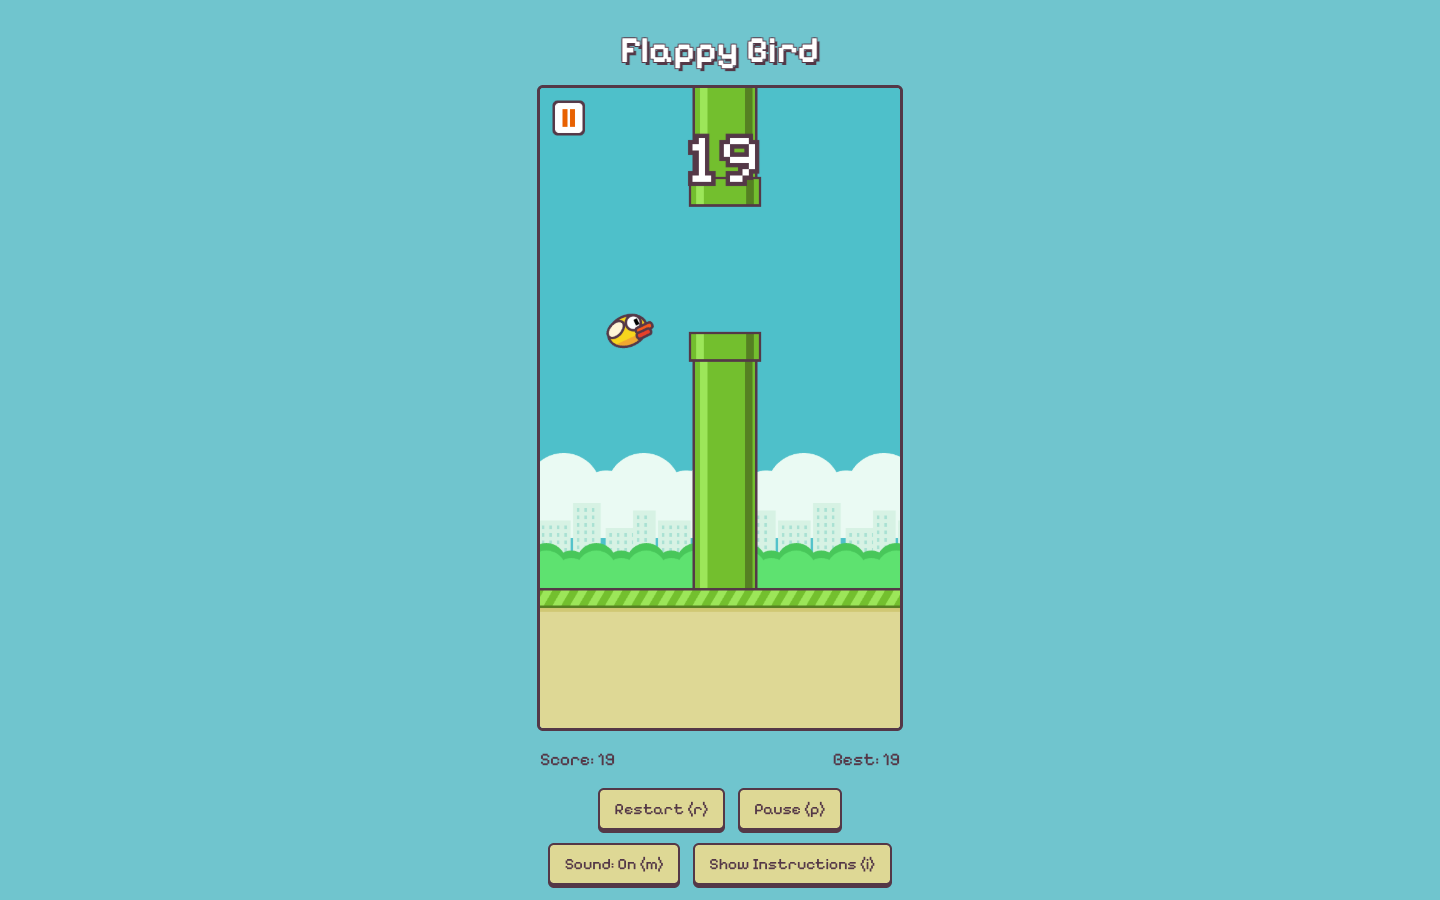
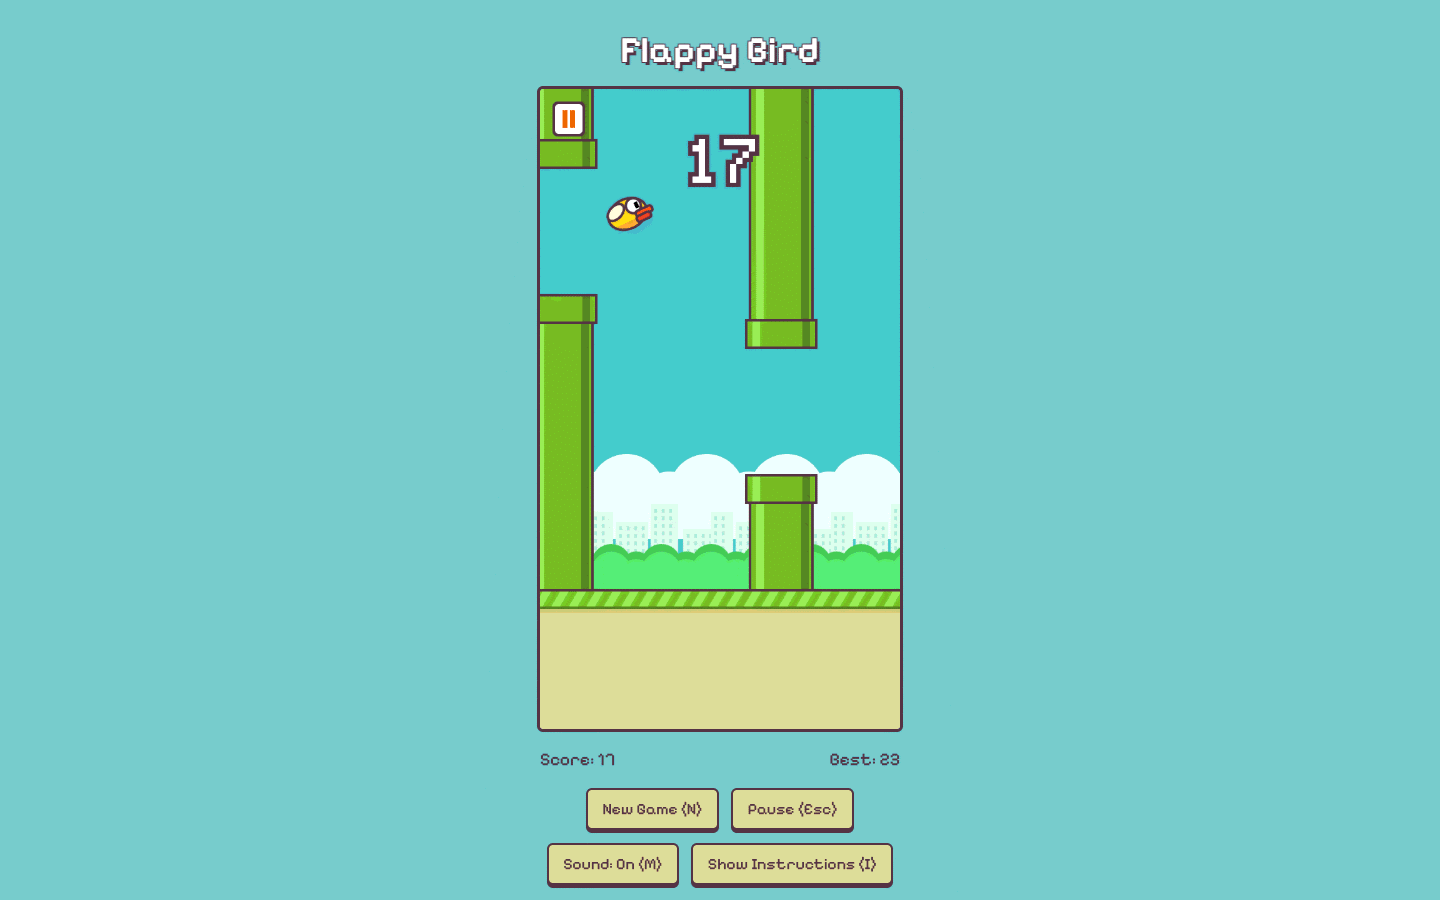
Flappy Bird: Esc pauses (not P), N and New Game (not R and Restart), key table instructions; mouse-only hover; new screenshots

Changed region(s): [[0.375, 0.0933, 0.625, 0.6844], [0.375, 0.84, 0.625, 0.9956], [0.375, 0.0933, 0.4375, 0.1867]]

diff --git a/js/flappy-bird.js b/js/flappy-bird.js
@@ -9,7 +9,7 @@
  *
  * Features:
  * - Get Ready, the game, a scoreboard with the best score and a medal (bronze from 10, silver 20, gold 30, platinum 40)
- * - Flap with Space, ↑, W, a click or a tap; pause with P, Esc or the pause button on the canvas
+ * - Flap with Space, ↑, W, a click or a tap; pause with Esc or the pause button on the canvas
  * - Sounds, made in the browser (Web Audio), on or off with M
  * - Pauses by itself when the page is hidden, loses the keyboard, or GameHub asks; a paused game is saved, and carries on
  *   (paused) next time
@@ -202,7 +202,7 @@ function toggleSound() {
 
 // --- The game ---
 
-// Back to Get Ready (a game under way is dropped: not kept)
+// A new game: back to Get Ready (a game under way is dropped: not kept)
 function toReady() {
     const dropped = screen === 'playing';
     if (dropped) run?.discard();
@@ -295,7 +295,7 @@ function gameOver() {
     showStatus();
 }
 
-// Pause the game under way (the pause button, P, Esc; the page hidden; GameHub)
+// Pause the game under way (the pause button, Esc; the page hidden; GameHub)
 function pause() {
     if (screen !== 'playing' || paused || GameHub.replaying) return;
     paused = true;
@@ -344,7 +344,7 @@ function resumeSavedGame() {
     previousY = game.y;
     bestBefore = saved.best;
     screen = 'playing';
-    paused = true; // It waits for the player: a flap, P, or the play button
+    paused = true; // It waits for the player: a flap, Esc, or the play button
     newBest = false;
     accumulator = 0;
     document.getElementById('score').textContent = game.score;
@@ -360,16 +360,16 @@ window.addEventListener('pagehide', pause);
 window.addEventListener('blur', pause);
 document.addEventListener('gamehub:pause', pause);
 
-// The keys: Space and ↑ flap; P and Esc pause; R goes back to Get Ready (js/extend-controls.js adds W, clicks and taps;
-// js/buttons-handler.js, M and I)
+// The keys: Space and ↑ flap; Esc pauses; N starts a new game, back at Get Ready (js/extend-controls.js adds W, clicks
+// and taps; js/buttons-handler.js, M and I)
 document.addEventListener('keydown', (e) => {
     if (e.ctrlKey || e.metaKey || e.altKey || GameHub.replaying) return;
     if (e.key === ' ' || e.key === 'ArrowUp') {
         e.preventDefault(); // Not a scroll, or a button that still has focus
         if (!e.repeat) flap();
-    } else if ((e.key === 'p' || e.key === 'Escape') && !e.repeat) {
+    } else if (e.key === 'Escape' && !e.repeat) {
         togglePause();
-    } else if (e.key === 'r' && !e.repeat) {
+    } else if (e.key === 'n' && !e.repeat) {
         toReady();
     }
 });
@@ -391,7 +391,7 @@ function pressCanvas(clientX, clientY) {
 // GameHub's frame, a click on the game gives it the keyboard)
 const KEYS_HINTS = {
     start: { touch: 'Tap to flap', away: 'Click here to play', keys: 'Press Space to flap' },
-    resume: { touch: 'Tap to carry on', away: 'Click here to carry on', keys: 'Space or P to carry on' },
+    resume: { touch: 'Tap to carry on', away: 'Click here to carry on', keys: 'Space or Esc to carry on' },
     restart: { touch: 'Tap to play again', away: 'Click here to play again', keys: 'Press Space to play again' },
 };
 function keysHint(action) {

diff --git a/test/bot.js b/test/bot.js
@@ -1,11 +1,11 @@
 /**
  * Replay test: Flappy Bird's bot (test/index.html, with test/check.js)
  *
- * Each game goes back to Get Ready (R) and starts with a flap. The bot steps the game itself (as the page does each
- * frame), so a game takes no time, and flaps through the page's own controls (Space, ↑, W, or a tap on the canvas)
- * whenever the bird is below the middle of the next gap and not already rising. Now and then it slips (no flaps for a
- * moment), more often as the score grows, which is the end of it sooner or later. Once in a while it pauses (P) and
- * carries on with P or a flap. A game still going after 20000 steps is left (R), and its run isn't kept.
+ * Each game is a new game, back at Get Ready (N), and starts with a flap. The bot steps the game itself (as the page
+ * does each frame), so a game takes no time, and flaps through the page's own controls (Space, ↑, W, or a tap on the
+ * canvas) whenever the bird is below the middle of the next gap and not already rising. Now and then it slips (no flaps
+ * for a moment), more often as the score grows, which is the end of it sooner or later. Once in a while it pauses (Esc)
+ * and carries on with Esc or a flap. A game still going after 20000 steps is left (N), and its run isn't kept.
  */
 window.ReplayBot = (function () {
     const MAX_STEPS = 20000;
@@ -37,7 +37,7 @@ window.ReplayBot = (function () {
 
         async play(page, t) {
             const rules = page.eval('GameRules');
-            t.key('r'); // Back to Get Ready
+            t.key('n'); // A new game: back to Get Ready
             flap(t, page); // The first flap starts a game (and its run)
             t.watch();
 
@@ -46,8 +46,8 @@ window.ReplayBot = (function () {
                 const game = page.eval('game');
                 const chance = t.random();
                 if (chance < 0.002) {
-                    t.key('p'); // Pause
-                    if (t.random() < 0.5) t.key('p'); // Carry on with P…
+                    t.key('Escape'); // Pause
+                    if (t.random() < 0.5) t.key('Escape'); // Carry on with Esc…
                     else flap(t, page); // …or a flap
                 }
                 if (slip > 0) {
@@ -58,11 +58,11 @@ window.ReplayBot = (function () {
                     const next = game.pipes.find((pipe) => pipe.x + rules.PIPE_WIDTH > rules.BIRD_X - 13);
                     if (game.y > (next.gapTop + next.gap / 2 + 18) * 100 && game.speed > -100) flap(t, page);
                 }
-                if (page.eval('paused')) t.key('p'); // Paused by the page (it was hidden): carry on
+                if (page.eval('paused')) t.key('Escape'); // Paused by the page (it was hidden): carry on
                 page.gameStep();
                 if (steps % 300 === 0) await t.pause();
             }
-            if (page.eval("screen === 'playing'")) t.key('r'); // Gave up: back to Get Ready (the run is dropped)
+            if (page.eval("screen === 'playing'")) t.key('n'); // Gave up: a new game (the run is dropped)
         },
     };
 })();

diff --git a/index.html b/index.html
@@ -33,20 +33,28 @@
         <p>Best: <span id="highScore">0</span></p>
     </div>
     <div class="controls">
-        <button id="restartBtn">Restart (r)</button>
-        <button id="pauseBtn">Pause (p)</button>
-        <button id="soundBtn" aria-pressed="true">Sound: On (m)</button>
-        <button id="showInstructionsBtn">Show Instructions (i)</button>
+        <button id="restartBtn">New Game (N)</button>
+        <button id="pauseBtn">Pause (Esc)</button>
+        <button id="soundBtn" aria-pressed="true">Sound: On (M)</button>
+        <button id="showInstructionsBtn">Show Instructions (I)</button>
     </div>
     <aside class="instructions">
-        <h2>How to Play:</h2>
-        <p>Press Space (or ↑, or W), click or tap to flap: each flap lifts the bird, and it falls in between.</p>
-        <p>Fly through the gaps between the pipes. Each pipe you pass is a point.</p>
-        <p>Don't touch a pipe or the ground!</p>
+        <h2>How to Play</h2>
+        <p>Flap through the gaps between the pipes: each flap lifts the bird, and it falls in between. Each pipe you pass is a point. Don't touch a pipe or the ground!</p>
         <p>Medals: bronze from 10 points, silver from 20, gold from 30, platinum from 40.</p>
-        <hr>
-        <p>Press "P" or "Esc" (or the button at the top left of the game) to pause. A paused game is saved: close the page, and it carries on next time.</p>
-        <p>Press "R" to go back to Get Ready, and "M" to turn the sound on or off.</p>
+        <!-- The controls, lined up: the keys (or the mouse and touch) on the left, what they do on the right -->
+        <table class="keys">
+            <tr><th colspan="2">Keys</th></tr>
+            <tr><td><kbd>Space</kbd> <kbd>↑</kbd> <kbd>W</kbd></td><td>Flap</td></tr>
+            <tr><td><kbd>Esc</kbd></td><td>Pause or resume</td></tr>
+            <tr><td><kbd>N</kbd></td><td>New game</td></tr>
+            <tr><td><kbd>M</kbd></td><td>Sound on or off</td></tr>
+            <tr><td><kbd>I</kbd></td><td>Show or hide these instructions</td></tr>
+            <tr><th colspan="2">Mouse and touch</th></tr>
+            <tr><td><b>Click</b> or <b>tap</b></td><td>Flap</td></tr>
+            <tr><td>The <b>pause button</b></td><td>Pause or resume (at the top left)</td></tr>
+        </table>
+        <p>A flap starts a game, and carries on a paused one. A paused game is saved: close the page, and it carries on next time.</p>
     </aside>
     <!-- JavaScript for this page -->
     <script src="js/buttons-handler.js"></script>

diff --git a/js/buttons-handler.js b/js/buttons-handler.js
@@ -1,4 +1,8 @@
 document.addEventListener('DOMContentLoaded', function() {
+    // A tapped button shows its pressed look (:active) on iPhones and iPads too: Safari shows it only to a page that
+    // listens for touches
+    document.addEventListener('touchstart', function() {}, { passive: true });
+
     const instructionsBtn = document.getElementById('showInstructionsBtn');
     const instructions = document.querySelector('.instructions');
     const restartBtn = document.getElementById('restartBtn');
@@ -9,11 +13,11 @@ document.addEventListener('DOMContentLoaded', function() {
     function toggleInstructions() {
         if (instructions.style.display === 'none') {
             instructions.style.display = 'block';
-            instructionsBtn.textContent = 'Hide Instructions (i)';
+            instructionsBtn.textContent = 'Hide Instructions (I)';
             window.scrollTo({ top: window.scrollY + instructions.getBoundingClientRect().top, behavior: 'smooth' });
         } else {
             instructions.style.display = 'none';
-            instructionsBtn.textContent = 'Show Instructions (i)';
+            instructionsBtn.textContent = 'Show Instructions (I)';
             instructions.scrollTo({ top: 0, behavior: 'smooth' });
         }
     }
@@ -24,7 +28,7 @@ document.addEventListener('DOMContentLoaded', function() {
 
     // The Sound button says whether the sound is on (js/flappy-bird.js tells it when that changes)
     function showSound() {
-        soundBtn.textContent = soundOn ? 'Sound: On (m)' : 'Sound: Off (m)';
+        soundBtn.textContent = soundOn ? 'Sound: On (M)' : 'Sound: Off (M)';
         soundBtn.setAttribute('aria-pressed', String(soundOn));
     }
     showSound();
@@ -37,7 +41,7 @@ document.addEventListener('DOMContentLoaded', function() {
         if (e.key === 'm') toggleSound();
     });
 
-    // The buttons: back to Get Ready, pause or resume, the sound
+    // The buttons: a new game (back to Get Ready), pause or resume, the sound
     restartBtn.addEventListener('click', toReady);
     pauseBtn.addEventListener('click', togglePause);
     soundBtn.addEventListener('click', toggleSound);

diff --git a/css/page.css b/css/page.css
@@ -58,8 +58,12 @@ button {
     cursor: pointer;
 }
 
-button:hover {
-    background-color: #f5f0c4;
+/* Lighter under the mouse (only with a mouse: on a touch screen it would stay light after a tap); pressed, it goes
+   down */
+@media (hover: hover) {
+    button:hover {
+        background-color: #f5f0c4;
+    }
 }
 
 button:active {
@@ -81,6 +85,47 @@ button:active {
 .instructions h2 {
     margin-top: 0;
     font-size: 1.2em;
+}
+
+.instructions p {
+    margin: 0.5em 0;
+}
+
+/* The controls, lined up in a table with no lines: the keys (or the mouse and touch) on the left, what they do on the
+   right */
+.keys {
+    border-collapse: collapse;
+}
+
+.keys th {
+    padding: 0.8em 0 0.3em;
+    text-align: left;
+}
+
+.keys td {
+    padding: 4px 0 3px;
+    vertical-align: baseline;
+}
+
+.keys td:first-child {
+    padding-right: 1.5em;
+    white-space: nowrap;
+}
+
+/* A key: like the buttons, in the game's sand and brown */
+.instructions kbd {
+    display: inline-block;
+    min-width: 1.2em;
+    padding: 1px 6px;
+    border: 2px solid #543847;
+    border-radius: 5px;
+    background-color: #f5f0c4;
+    box-shadow: 0 2px 0 #543847;
+    color: #543847;
+    font-family: inherit;
+    font-size: 0.95em;
+    font-weight: bold;
+    text-align: center;
 }
 
 /* The Easter egg (js/qwerty.js): the page at night too, its writing light */

diff --git a/README.md b/README.md
@@ -1,4 +1,5 @@
 # Flappy Bird
+[![flappy-bird@v1.0.0](https://img.shields.io/badge/flappy--bird-v1.0.0-blue)](https://github.com/DanyilT/dt-games/releases/tag/flappy-bird@v1.0.0)
 
 Flap through the gaps between the pipes, as far as you can: the classic one-button game, in the original's style. Every picture is drawn in code (no image files from the original), and the sounds are made in the browser.
 
@@ -14,8 +15,8 @@ Flap to start. In GameHub, click the game first, so it has the keyboard: it says
 | --- | --- |
 | <kbd>Space</kbd> / <kbd>↑</kbd> / <kbd>W</kbd> | Flap (and start, carry on after a pause, or leave the scoreboard) |
 | Click | Flap (or, on the button at the top left, pause) |
-| <kbd>P</kbd> / <kbd>Esc</kbd> | Pause or resume |
-| <kbd>R</kbd> | Back to Get Ready |
+| <kbd>Esc</kbd> | Pause or resume |
+| <kbd>N</kbd> | New game: back to Get Ready (a game under way is dropped) |
 | <kbd>M</kbd> | Sound on or off |
 | <kbd>I</kbd> | Show or hide the instructions |
 
